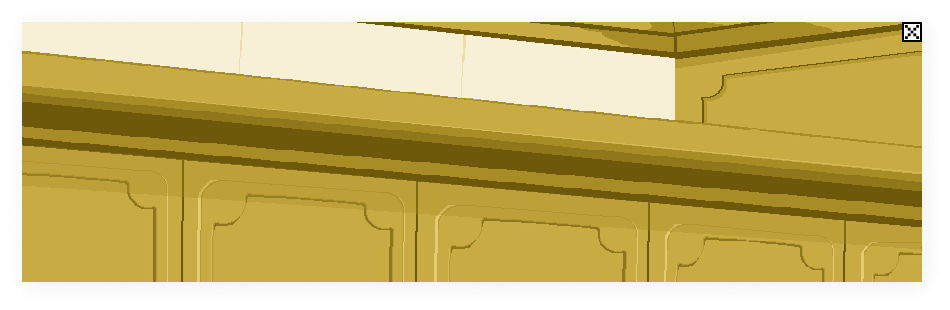
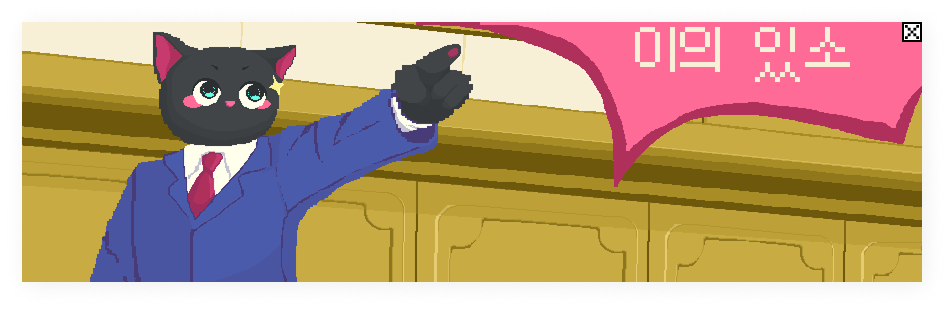
pause버튼

Changed region(s): [[0.0916, 0.0871, 0.5189, 0.929], [0.4274, 0.0581, 0.9768, 0.6097]]

diff --git a/Test/game copy.html b/Test/game copy.html
@@ -1,0 +1,270 @@
+<!DOCTYPE html>
+<html lang="en">
+
+<head>
+    <meta charset="UTF-8">
+    <meta name="viewport" content="width=device-width, initial-scale=1.0">
+    <title>Facucat</title>
+    <style>
+        @import url('https://fonts.googleapis.com/css2?family=Micro+5&display=swap');
+
+        .micro-5-regular {
+            font-family: "Micro 5", sans-serif;
+            font-weight: 400;
+            font-style: normal;
+        }
+
+        /* ===== 기본 레이아웃 ===== */
+        .container {
+            display: block;
+            margin: 50px;
+        }
+
+        .top-row,
+        .bottom-row {
+            padding: 10px;
+            margin-left: auto;
+            margin-right: auto;
+            text-align: center;
+            display: flex;
+            justify-content: center;
+            align-items: center;
+            position: relative;
+        }
+
+        .gif {
+            width: 200px;
+            height: 400px;
+            padding: 30px;
+        }
+
+        .ad {
+            height: 200px;
+        }
+
+        /* ===== 게임 화면 ===== */
+        .main-back {
+            position: relative;
+            display: flex;
+            flex-direction: column;
+            align-items: center;
+            justify-content: center;
+            margin: 0 auto;
+            width: 100%;
+            max-width: 1200px;
+            height: 750px;
+            overflow: hidden;
+        }
+
+        .main-img {
+            width: 100%;
+            height: 100%;
+            object-fit: cover;
+        }
+
+        .main-obj {
+            position: absolute;
+            top: 0;
+            left: 50%;
+            transform: translateX(-50%);
+            width: 100%;
+            height: 100%;
+            display: flex;
+            flex-direction: column;
+            align-items: center;
+        }
+
+        .main-ground {
+            position: absolute;
+            bottom: 0;
+            left: 0;
+            width: 100%;
+        }
+
+        /* ===== 상단 UI ===== */
+        .main {
+            position: absolute;
+            top: 0;
+            left: 0;
+            width: 100%;
+            display: flex;
+            justify-content: space-between;
+            align-items: flex-start;
+            padding: clamp(20px, 3vw, 40px);
+            z-index: 10;
+            box-sizing: border-box;
+        }
+
+        .main-heart {
+            display: flex;
+            gap: clamp(5px, 1vw, 10px);
+        }
+
+        .main-heart img {
+            width: clamp(30px, 4vw, 50px);
+            height: auto;
+        }
+
+        .main h1 {
+            position: absolute;
+            left: 50%;
+            transform: translateX(-50%);
+            margin: 0;
+            color: white;
+            font-size: clamp(24px, 4vw, 48px);
+            text-shadow: 2px 2px 4px rgba(0, 0, 0, 0.5);
+        }
+
+        .pause {
+            width: clamp(30px, 4vw, 50px);
+            height: auto;
+            margin-left: auto;
+            cursor: pointer;
+            transition: 0.2s;
+        }
+
+        .pause:hover {
+            transform: scale(1.1);
+        }
+
+        /* ===== 팝업 (main-back 안에서만 보이게) ===== */
+        .popup-background {
+            display: none;
+            position: absolute;
+            top: 0;
+            left: 0;
+            width: 100%;
+            height: 100%;
+            background-color: rgba(0, 0, 0, 0.5);
+            z-index: 20;
+            justify-content: center;
+            align-items: center;
+            backdrop-filter: blur(2px);
+        }
+
+        .popup {
+            display: flex;
+            width: 500px;
+            height: 300px;
+            padding: 51px 50px 52px 50px;
+            flex-direction: column;
+            justify-content: center;
+            align-items: flex-start;
+            gap: 37px;
+            flex-shrink: 0;
+            border: 10px solid #FFF;
+            background: rgba(255, 255, 255, 0.6);
+
+            /* 그림자 */
+            box-shadow: 10px 10px 0 0 rgba(0, 0, 0, 0.50);
+
+
+        }
+
+        .popup button {
+            font-size: 48px;
+            margin: 10px;
+            padding: 30px 200px;
+            border: none;
+            cursor: pointer;
+            transition: 0.2s;
+            /* background: rgba(255, 255, 255, 0.6); */
+            background-color: none;
+            
+
+        }
+
+        .retry {
+            color: white;
+            text-shadow: 5px 5px 0px rgba(0, 0, 0, 0.493);
+
+        }
+
+        .retry:hover {
+            transform: scale(1.05);
+            /* background: rgba(255, 255, 255, 0.35); */
+            box-shadow: 10px 10px 0 0 rgba(0, 0, 0, 0.50);
+        }
+
+        .exit {
+            color: white;
+            text-shadow: 5px 5px 0px rgba(0, 0, 0, 0.493);
+
+        }
+
+        .exit:hover {
+            transform: scale(1.05);
+            background: rgba(255, 255, 255, 0.35);
+            box-shadow: 10px 10px 0 0 rgba(0, 0, 0, 0.50);
+        }
+    </style>
+</head>
+
+<body>
+
+    <div class="container">
+        <div class="top-row">
+            <img src="../img/(광고)물불게임.gif" class="gif" alt="">
+
+            <div class="main-back">
+                <div class="main">
+                    <div class="main-heart">
+                        <img src="../img/채워진하트.png" alt="Heart">
+                        <img src="../img/채워진하트.png" alt="Heart">
+                        <img src="../img/채워진하트.png" alt="Heart">
+                    </div>
+                    <h1 class="micro-5-regular">Stage</h1>
+                    <img src="../img/Stop.png" id="pauseBtn" class="pause" alt="pause">
+                </div>
+
+                <img src="../img/하늘.png" class="main-img" alt="sky">
+
+                <div class="main-obj">
+                    <img src="../img/구름.png" class="main-cloud" alt="cloud">
+                    <img src="../img/지형1.png" class="main-ground" alt="ground">
+                </div>
+
+                <!-- 팝업 (main-back 안에서만 보이게) -->
+                <div class="popup-background" id="popupBackground">
+                    <div class="popup">
+                        <!-- <h1 class="micro-5-regular">PAUSED</h1> -->
+                        <button class="retry micro-5-regular" id="retryBtn">RETRY</button>
+                        <button class="exit micro-5-regular" id="exitBtn">EXIT</button>
+                    </div>
+                </div>
+
+            </div>
+
+            <img src="../img/(광고)라면가게.gif" class="gif">
+        </div>
+
+        <div class="bottom-row">
+            <img src="../img/내가만든거 아님.png" class="ad">
+            <img src="../img/역전재판.png" class="ad">
+        </div>
+    </div>
+
+    <script>
+        const pauseBtn = document.getElementById("pauseBtn");
+        const popupBackground = document.getElementById("popupBackground");
+        const retryBtn = document.getElementById("retryBtn");
+        const exitBtn = document.getElementById("exitBtn");
+
+        // 일시정지 클릭 시 팝업 보이기
+        pauseBtn.addEventListener("click", () => {
+            popupBackground.style.display = "flex";
+        });
+
+        // Retry 클릭 시 새로고침
+        retryBtn.addEventListener("click", () => {
+            location.reload();
+        });
+
+        // Exit 클릭 시 index.html 이동
+        exitBtn.addEventListener("click", () => {
+            location.href = "index.html";
+        });
+    </script>
+</body>
+
+</html>

diff --git a/Test/stage1.html b/Test/stage1.html
@@ -309,7 +309,7 @@
 
             // 상자
             if (!game.box.opened) {
-                const boxImg = images.box_close; // 닫힌 상자 이미지
+                const boxImg = images.box_close.src; // 닫힌 상자 이미지
                 if (boxImg && boxImg.complete) {
                     ctx.drawImage(boxImg, game.box.x, game.box.y, 74, 46); // 상자 크기에 맞게 조정
                 } else {
